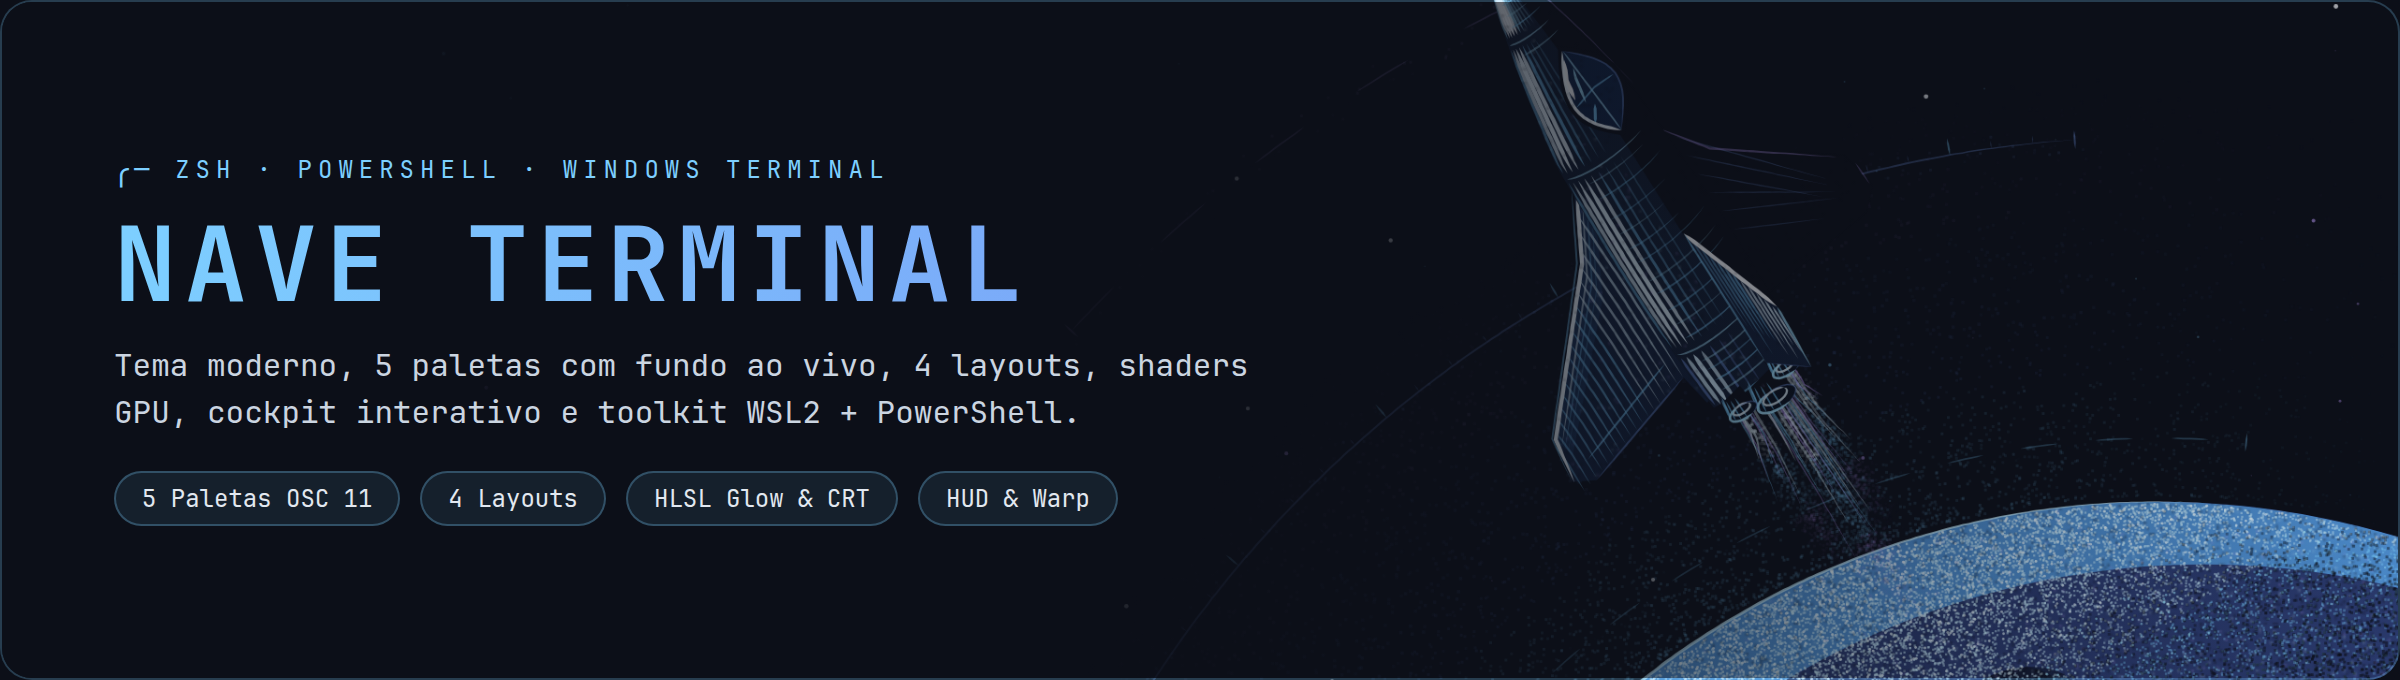
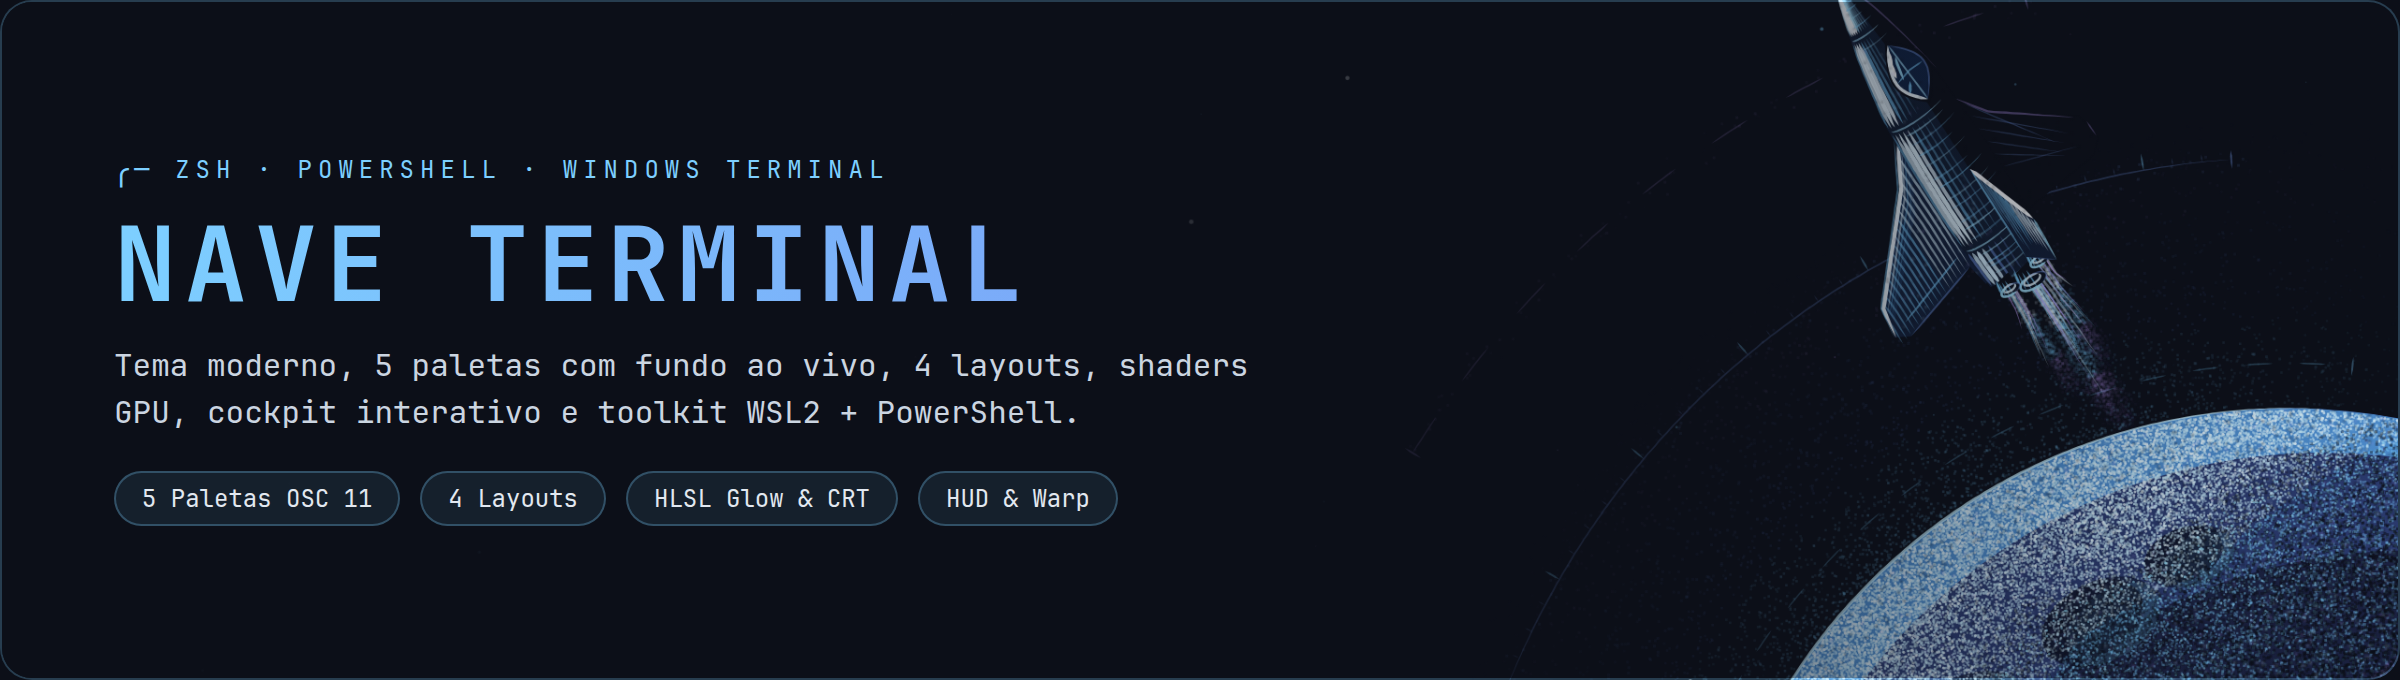
art: scale down spacecraft + planet and tuck cleanly into bottom-right corner

Changed region(s): [[0.625, 0.0, 1.0, 1.0], [0.75, 0.0, 0.9062, 0.5868], [0.7188, 0.2162, 0.75, 0.2471]]

diff --git a/windows-terminal/art/nave-anidoodle.html b/windows-terminal/art/nave-anidoodle.html
@@ -171,41 +171,40 @@ function drawBackdrop(ctx, W, H, planet, rng) {
   // Built purely from positional-density 1.6px square grain (zero 8-bit gradient banding!)
   const { cx, cy, R } = planet;
   ctx.save();
-  for (let i = 0; i < 9500; i++) {
+  for (let i = 0; i < 6500; i++) {
     // Sample polar band just outside the sunlit upper-left horizon of the planet
     const deg = 175 + rng() * 112;
     const rad = (deg * Math.PI) / 180;
-    const u = Math.pow(rng(), 1.65); // denser near the planet limb, fading smoothly into dark space
-    const dist = R + 4 + u * 235;
+    const u = Math.pow(rng(), 1.65);
+    const dist = R + 3 + u * 160;
     const x = cx + Math.cos(rad) * dist;
     const y = cy + Math.sin(rad) * dist;
-    if (x < W * 0.42 || x > W || y < 0 || y > H) continue;
+    if (x < W * 0.56 || x > W || y < 0 || y > H) continue;
 
-    // Fade smoothly toward left/right horizon ends
     const arcCenter = Math.cos(((deg - 230) * Math.PI) / 115);
     if (arcCenter <= 0 || rng() > arcCenter) continue;
 
     const col = u < 0.28 ? '#7DCFFF' : (u < 0.65 ? '#5E82D6' : '#BB9AF7');
     ctx.fillStyle = col;
     ctx.globalAlpha = (1 - u) * 0.24 * arcCenter * (0.5 + 0.5 * rng());
-    const sz = u < 0.4 ? 1.5 : 1.8;
+    const sz = u < 0.4 ? 1.3 : 1.55;
     ctx.fillRect(x, y, sz, sz);
   }
   ctx.restore();
 
-  // Calm starfield (denser on right, sparse on left code area)
-  const cell = 40;
+  // Calm starfield (denser on right corner, ultra-sparse on left code area)
+  const cell = 42;
   ctx.save();
   for (let gx = 0; gx < W; gx += cell) {
     for (let gy = 0; gy < H; gy += cell) {
       const x = gx + rng() * cell;
       const y = gy + rng() * cell;
-      const keepProb = x < W * 0.48 ? 0.06 : 0.22;
+      const keepProb = x < W * 0.58 ? 0.04 : 0.20;
       if (rng() > keepProb) continue;
 
       const bright = Math.pow(rng(), 2.7);
-      const r = 0.40 + bright * 0.90;
-      ctx.globalAlpha = 0.16 + bright * 0.60;
+      const r = 0.38 + bright * 0.85;
+      ctx.globalAlpha = 0.14 + bright * 0.58;
       ctx.fillStyle = bright > 0.72 ? '#F8FAFC' : (rng() < 0.55 ? '#7DCFFF' : '#BB9AF7');
       ctx.beginPath();
       ctx.arc(x, y, r, 0, Math.PI * 2);
@@ -214,10 +213,10 @@ function drawBackdrop(ctx, W, H, planet, rng) {
   }
   ctx.restore();
 
-  // Two delicate hand-tapered navigational stars
+  // Two delicate hand-tapered navigational stars tucked cleanly in the right quadrant
   for (const [sx, sy, sz, col] of [
-    [W * 0.575, H * 0.195, 7.2, '#A4E4FF'],
-    [W * 0.915, H * 0.235, 5.8, '#BB9AF7'],
+    [W * 0.73, H * 0.34, 6.2, '#A4E4FF'],
+    [W * 0.94, H * 0.39, 5.2, '#BB9AF7'],
   ]) {
     gougeStroke(ctx, [[sx - sz, sy], [sx + sz, sy]], { color: col, maxWidth: 1.05, alpha: 0.72, taperStart: 0.45, taperEnd: 0.45, wobble: 0.08, rng });
     gougeStroke(ctx, [[sx, sy - sz], [sx, sy + sz]], { color: col, maxWidth: 1.05, alpha: 0.72, taperStart: 0.45, taperEnd: 0.45, wobble: 0.08, rng });
@@ -418,7 +417,7 @@ function drawGrainyFlatPlanet(ctx, W, H, dpr, planet, rng, noise) {
 // Shared 3D Ship Projection Factory
 // -----------------------------------------------------------------------------
 function makeShipProjector(scx, scy) {
-  const scale = 1.18;
+  const scale = 0.80;
   const roll = -26 * Math.PI / 180;
   const pitch = 22 * Math.PI / 180;
   const yaw2D = -33 * Math.PI / 180;
@@ -498,9 +497,9 @@ function drawOrbitalChart(ctx, W, H, planet, rng) {
     }
   };
 
-  drawConcentricArc(34, 194, 276, '#7DCFFF', 0.85, 0.28, true, false);
-  drawConcentricArc(195, 200, 266, '#7AA2F7', 1.0, 0.30, false, true);
-  drawConcentricArc(345, 212, 256, '#BB9AF7', 0.85, 0.26, true, false);
+  drawConcentricArc(24, 194, 276, '#7DCFFF', 0.80, 0.26, true, false);
+  drawConcentricArc(134, 200, 266, '#7AA2F7', 0.90, 0.28, false, true);
+  drawConcentricArc(236, 212, 256, '#BB9AF7', 0.80, 0.24, true, false);
 }
 
 // -----------------------------------------------------------------------------
@@ -864,8 +863,8 @@ window.render = function (frame, env) {
   const rng = mulberry32(20261126 + (frame || 0));
   const noise = makeNoise2D(7741);
 
-  const planet = { cx: W * 0.90, cy: H * 1.24, R: H * 0.62 };
-  const P = makeShipProjector(W * 0.685, H * 0.395);
+  const planet = { cx: W * 0.955, cy: H * 1.18, R: H * 0.44 };
+  const P = makeShipProjector(W * 0.810, H * 0.545);
 
   drawBackdrop(ctx, W, H, planet, rng);
   drawGrainyFlatPlanet(ctx, W, H, dpr, planet, rng, noise);
